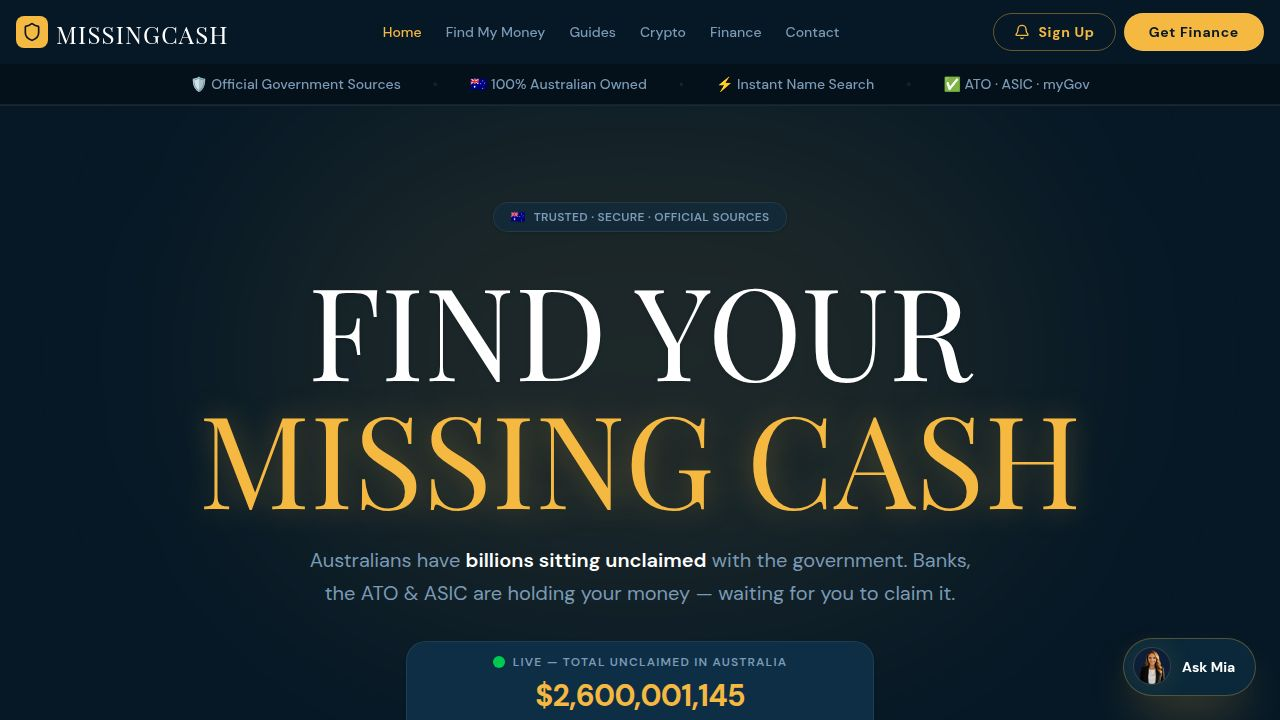
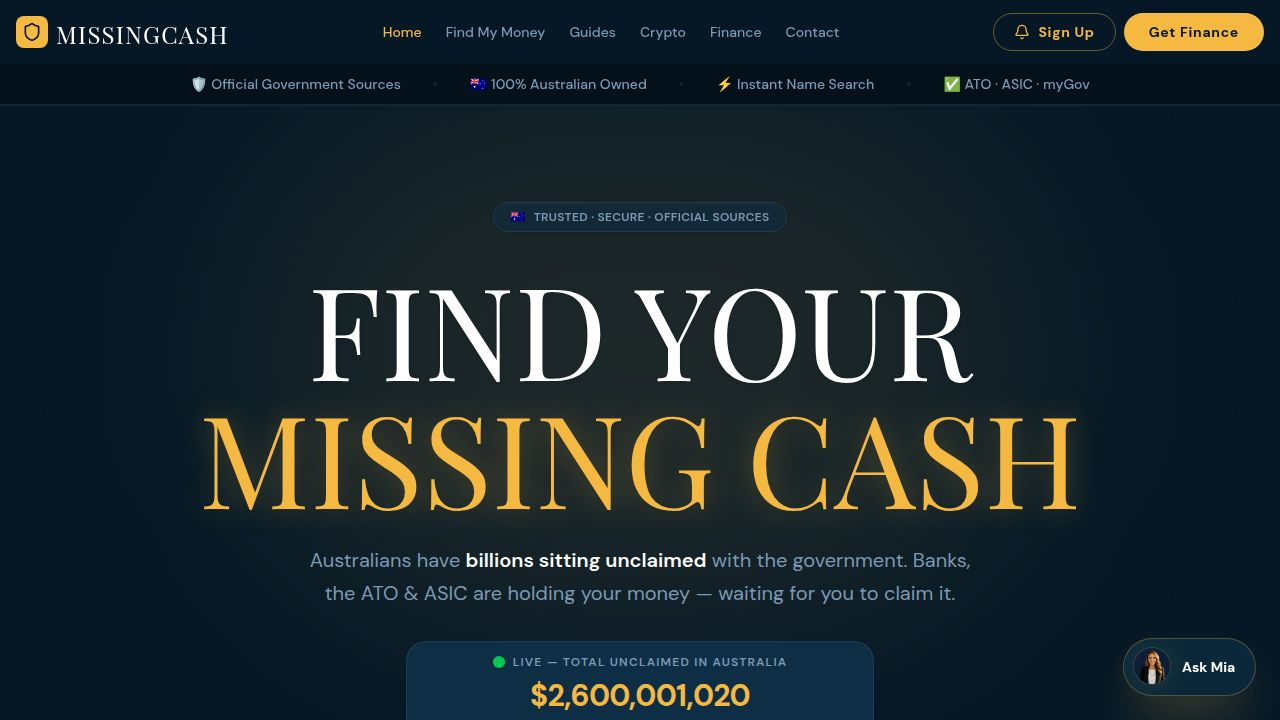
Add button to download chat transcript as a text file
Adds a FileText icon and a downloadTranscript function to MiaChat.tsx to enable users to download the conversation history as a formatted .txt file.

Replit-Commit-Author: Agent
Replit-Commit-Session-Id: 826f48f5-a842-46a0-bdf7-ed06c2bd6792
Replit-Commit-Checkpoint-Type: full_checkpoint
Replit-Commit-Event-Id: a3d58ce0-334e-4dc9-b51b-a76fb55f8253
Replit-Commit-Screenshot-Url: https://storage.googleapis.com/screenshot-production-us-central1/d2c17132-279e-4c62-a827-c3c79ae46ec2/826f48f5-a842-46a0-bdf7-ed06c2bd6792/mkDrTGX
Replit-Helium-Checkpoint-Created: true

Changed region(s): [[0.4062, 0.9472, 0.5938, 1.0]]

diff --git a/artifacts/missingcash/src/components/MiaChat.tsx b/artifacts/missingcash/src/components/MiaChat.tsx
@@ -1,6 +1,6 @@
 import { useState, useRef, useEffect, useCallback } from "react";
 import { motion, AnimatePresence } from "framer-motion";
-import { X, Send, Volume2, VolumeX } from "lucide-react";
+import { X, Send, Volume2, VolumeX, FileText } from "lucide-react";
 
 interface Message {
   id: string;
@@ -59,6 +59,32 @@ function renderMessage(content: string) {
       );
     return <span key={i}>{part}</span>;
   });
+}
+
+function downloadTranscript(messages: Message[]) {
+  const date = new Date().toLocaleDateString("en-AU", { day: "numeric", month: "long", year: "numeric" });
+  const time = new Date().toLocaleTimeString("en-AU", { hour: "2-digit", minute: "2-digit" });
+  const lines = [
+    `MissingCash — Chat with Mia`,
+    `${date} at ${time}`,
+    `${"─".repeat(40)}`,
+    "",
+    ...messages.map((m) => {
+      const label = m.role === "assistant" ? "Mia" : "You";
+      const clean = m.content.replace(/\*\*([^*]+)\*\*/g, "$1").replace(/\[(.+?)\]\((https?:\/\/.+?)\)/g, "$1 ($2)");
+      return `${label}:\n${clean}`;
+    }),
+    "",
+    `${"─".repeat(40)}`,
+    `missingcash.com.au`,
+  ];
+  const blob = new Blob([lines.join("\n\n")], { type: "text/plain" });
+  const url = URL.createObjectURL(blob);
+  const a = document.createElement("a");
+  a.href = url;
+  a.download = `mia-chat-${new Date().toISOString().slice(0, 10)}.txt`;
+  a.click();
+  URL.revokeObjectURL(url);
 }
 
 function stripForSpeech(content: string): string {
@@ -464,6 +490,14 @@ export default function MiaChat() {
                 title={voiceOn ? "Mia's voice: on" : "Mia's voice: off"}
               >
                 {voiceOn ? <Volume2 size={18} /> : <VolumeX size={18} />}
+              </button>
+              <button
+                onClick={() => downloadTranscript(messages)}
+                className="text-muted-foreground hover:text-white transition-colors p-1 rounded-lg hover:bg-white/10"
+                aria-label="Download chat transcript"
+                title="Download transcript"
+              >
+                <FileText size={18} />
               </button>
               <button
                 onClick={() => { stopSpeaking(); setOpen(false); }}